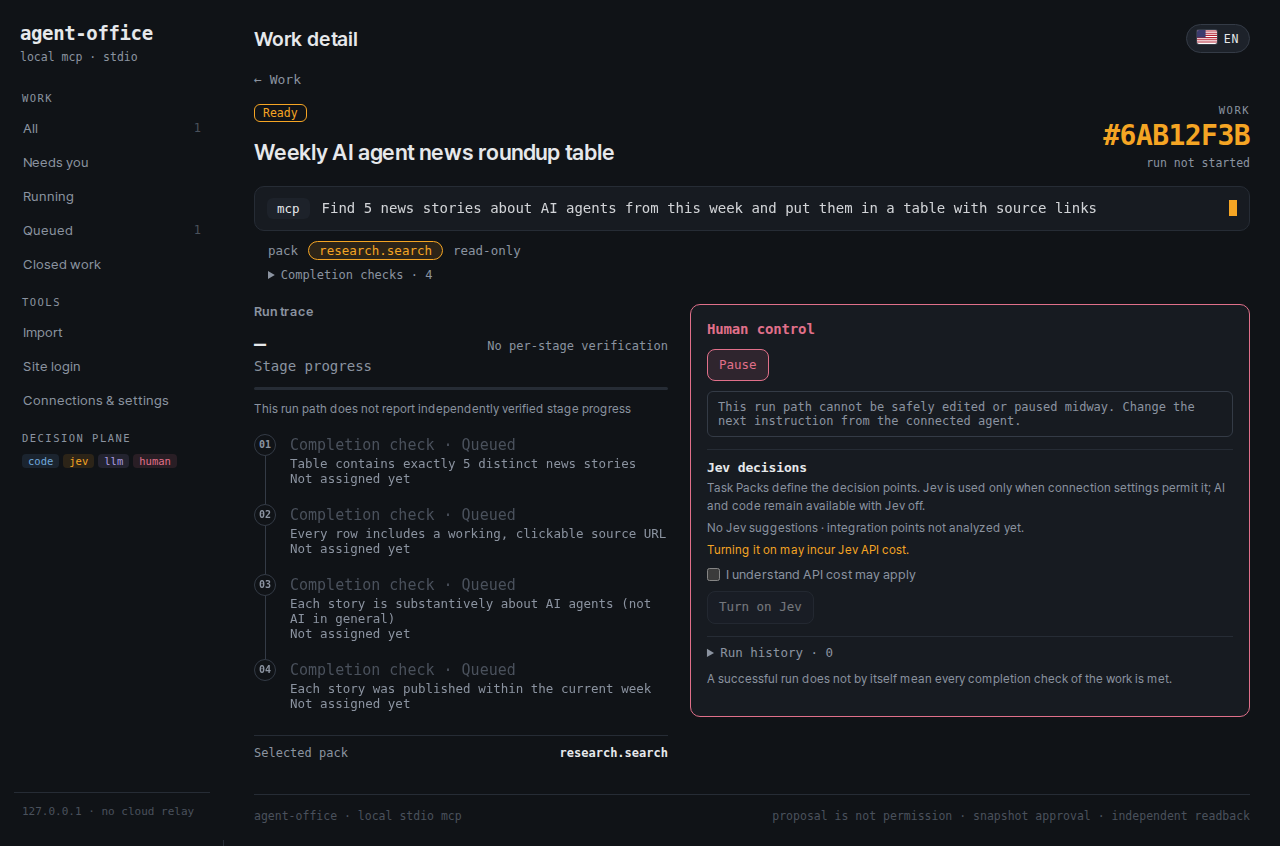
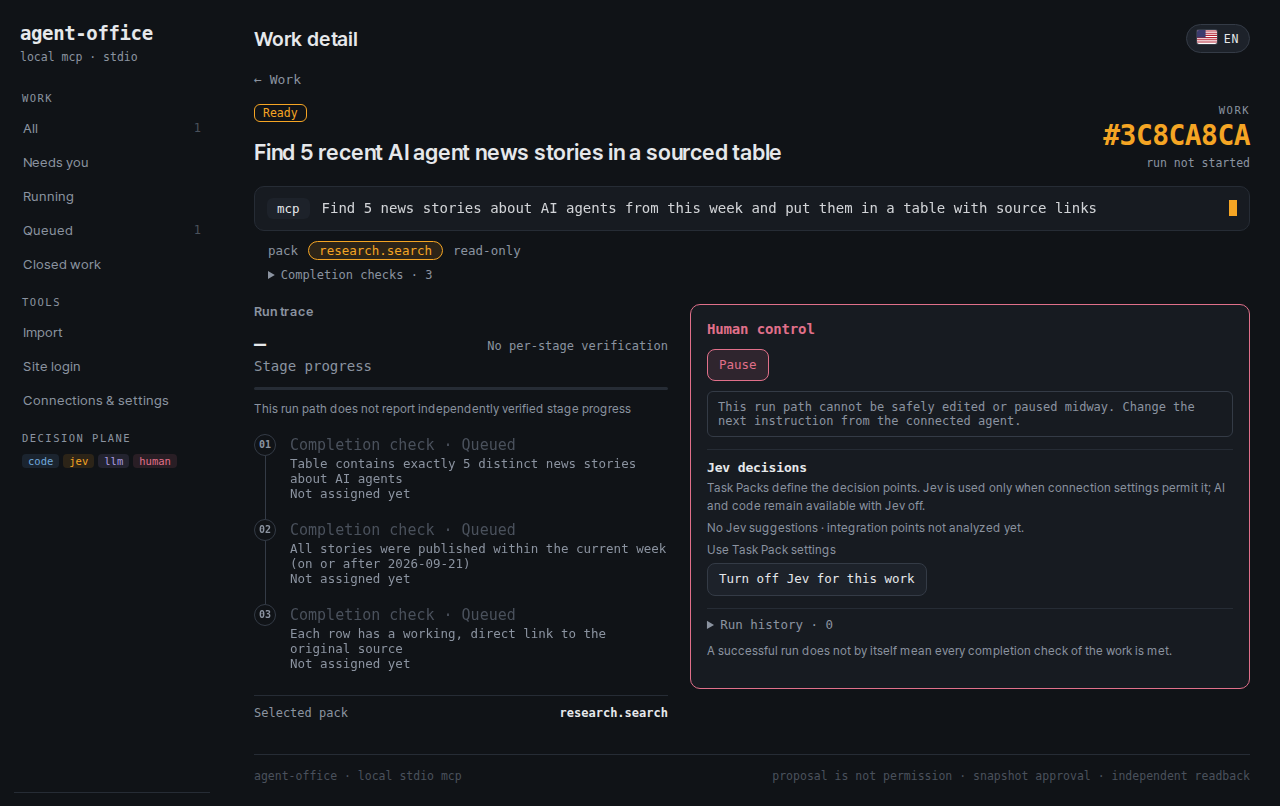
Accept Claude setup-token logins and finish the English Control Center
Claude subscription detection:
- Count a `claude setup-token` login (authMethod oauth_token) as a
  subscription, alongside claude.ai logins. v0.2.0 treated it as
  unconfirmed, so one-line Work stopped at "AI connection needed" on
  headless and WSL machines that sign in this way.
- Require apiProvider firstParty and no apiKeySource for any Claude
  subscription, so API keys, apiKeyHelper, Bedrock and Vertex sessions
  are still never billed as a subscription.

English UI:
- Translate the Hermes, remote OpenClaw, coding and Jev recommendation
  screens added in v0.2.0.
- Translate rule captures and parts recursively, and run the saved-model
  rule before the generic model rule.
- Serve an English migration prompt (prompt_en) for the English UI; the
  Korean prompt stays the default for existing callers.

README captures retaken from an empty v0.2.0 state with the fixes.

Claude-Session: https://claude.ai/code/session_0171zJvKY7w77Dtde6vXCLJg

diff --git a/src/observability/i18n.ts b/src/observability/i18n.ts
@@ -150,6 +150,8 @@ const EN:Record<string,string>={
 '독립 확인과 품질 승인된 단계만 계산':'Counts only independently checked and quality-approved stages','단계 실행·검증 완료 기준이며 업무 완료 조건은 별도 확인':'Based on stage runs and checks; work completion checks are confirmed separately',
 '사용자가 일시정지함':'Paused by you','완료 확인':'Completion check','결과 작성':'Write result','자료 확인':'Check sources','에이전트 ID 미보고':'Agent ID not reported','사이트 로그인이 필요함':'Site login required',
 '이 실행 경로는 단계별 독립 검증 결과를 보고하지 않음':'This run path does not report per-stage verification',
+// v0.2.0 Hermes, remote OpenClaw and coding screens
+"Hermes 실행 · Driver 관리":"Hermes runs · Driver manages","현재 진행":"Current progress","Hermes 세션":"Hermes session","첫 지시를 보낼 때 전용 Hermes 세션을 만듭니다.":"A dedicated Hermes session is created when you send the first instruction.","아직 Hermes가 보고한 실행 단계가 없습니다.":"Hermes has not reported any run steps yet.","업무 절차":"Work steps","가져온 기록":"Imported record","실제 작업 로그":"Actual work log","업무 제어":"Work control","배정 재개":"Resume assignment","일시정지는 새 배정을 막고 진행 중인 요청에 중단을 전달합니다. 이미 발생한 변경은 취소되지 않습니다. 재개해도 중단된 지시를 자동 반복하지 않습니다.":"Pause blocks new assignments and sends a stop to the request in progress. Changes already made are not undone. Resuming does not repeat the stopped instruction automatically.","Hermes 승인 요청":"Hermes approval request","현재 요청 한 번에만 적용됩니다.":"Applies to the current request only.","Hermes에 다음 지시":"Next instruction for Hermes","Hermes에 설정된 모델로 실행합니다. 설정에 따라 API 비용 또는 구독 사용량이 발생합니다.":"Runs with the model configured in Hermes. Depending on that setting, it uses API credit or subscription usage.","Hermes로 실행":"Run with Hermes","Hermes의 모델·인증 설정을 유지합니다. 이 버튼은 자동 예약을 만들지 않습니다. Telegram 게이트웨이는 그대로 유지됩니다.":"Hermes keeps its model and auth settings. This button creates no schedule. The Telegram gateway stays as it is.","Hermes 답변":"Hermes reply","지시 대기":"Waiting for instruction","Hermes 연결 중":"Connecting to Hermes","실행 중":"Running","답변 도착":"Reply received","연결 또는 실행 실패":"Connection or run failed","중단 결과 확인 필요":"Check the stop result","가져오기 연결 해제":"Unlink import","이전 기록":"Earlier record","첫 실행 전 연결 취소":"Unlink before first run","이번에 실행할 지시를 입력해 주세요.":"Enter the instruction to run now.","Hermes 모델 사용량 안내를 확인해 주세요.":"Acknowledge the Hermes model usage notice first.","요청을 저장하는 중…":"Saving the request…","Hermes 요청 실패":"Hermes request failed","지시를 접수했습니다. Hermes의 진행과 답변이 여기에 표시됩니다.":"Instruction received. Hermes progress and replies appear here.","새 지시를 보낼 수 있습니다. 자동 재실행은 하지 않습니다.":"You can send a new instruction. Nothing re-runs automatically.","요청을 반영했습니다.":"Request applied.","Hermes 작업 로그":"Hermes work log","대상 날짜와 원하는 결과를 알려주세요. 제출·전송은 필요할 때 명시해 주세요.":"Give the target date and the result you want. Say explicitly when something should be submitted or sent.","Hermes 업무":"Hermes work","Hermes가 실행하고 Driver에서 관리합니다. 원본 대화·예약·인증은 그대로 둡니다.":"Hermes runs it and Driver manages it. The original conversations, schedules and auth stay as they are.","Hermes 데이터 폴더":"Hermes data folder","비워 두면 현재 프로필":"leave empty for the current profile","가져올 업무 찾기":"Find work to import","예약은 원본 Hermes에서 계속 유지됩니다. 새 예약을 만들지 않습니다.":"Schedules stay in the original Hermes. No new schedule is created.","예약":"Schedule","대화":"Conversation","다음 대화 보기":"Show more conversations","가져오기 완료":"Imported","가져오기 연결 취소됨":"Import unlinked","원본 Hermes는 변경하지 않았습니다. 실행이나 예약을 시작하지 않았습니다.":"The original Hermes was not changed. No run or schedule was started.","변경 전 백업 보관":"Backup kept from before the change","업무 등록 전":"Before Work registration","업무 보기":"View work","가져올 업무 확인":"Review work to import","이 초안은 선택한 원본의 지침을 옮긴 것입니다. 업무 해석과 과거 결과는 아직 검증되지 않았습니다. 내용이 여러 업무를 섞고 있다면 한 업무로 좁혀 주세요.":"This draft carries over the selected source's instructions. Its reading of the work and past results are not verified yet. If it mixes several tasks, narrow it to one.","같은 원본으로 등록된 업무가 있습니다. 중복 생성하거나 덮어쓰지 않습니다.":"Work from the same source is already registered. Nothing is duplicated or overwritten.","기존 업무 보기":"View existing work","업무 이름":"Work name","목표":"Goal","실행 지침":"Run instructions","한 줄에 하나":"one per line","업무 단계":"Work steps","내용을 확인했습니다. Hermes 실행은 유지하고 Driver에 대기 업무로 등록합니다.":"I reviewed this. Hermes keeps running it; register it in Driver as queued work.","키·쿠키를 복사하지 않습니다. 가져오기 처리는 AI·Jev를 추가 호출하지 않습니다. 원본 예약을 계속 돌리고 있다면 수동 실행과 겹치지 않게 확인하세요.":"Keys and cookies are not copied. Importing makes no extra AI or Jev calls. If the original schedule keeps running, make sure manual runs do not overlap with it.","확인하고 가져오기":"Review and import","이전에 수동으로 가져온 같은 원본의 업무가 있습니다. 기존 업무를 확인해 주세요. 자동으로 덮어쓰거나 중복 등록하지 않습니다.":"Work from the same source was imported manually before. Check the existing work; nothing is overwritten or registered twice.","확인하는 동안 원본이 바뀌었습니다. 목록에서 다시 선택해 검토해 주세요.":"The source changed while you were reviewing. Select it from the list again and review.","이미 연결된 업무가 있습니다. 기존 업무를 확인해 주세요. 새 내용으로 자동 덮어쓰지 않습니다.":"This is already linked to a Work. Check the existing work; it is not overwritten automatically.","이미 등록한 내용과 다릅니다. 기존 업무를 확인해 주세요.":"This differs from what was registered. Check the existing work.","이미 실행한 이력이 있어 가져오기를 취소할 수 없습니다. 업무 상세에서 일시정지하세요.":"It has already run, so the import cannot be undone. Pause it from Work detail.","지침에 비밀번호·토큰 같은 값이 들어 있습니다. 값은 빼고 필요한 연결 종류만 적어 주세요.":"The instructions contain a value such as a password or token. Remove the value and name only the kind of connection needed.","Hermes 데이터 폴더를 찾지 못했습니다. 실행 환경의 경로를 확인해 주세요.":"Could not find the Hermes data folder. Check the path in the environment running Office.","선택한 폴더에서 Hermes 대화나 예약을 찾지 못했습니다.":"No Hermes conversations or schedules were found in that folder.","원본의 특수 실행 설정을 그대로 보존할 수 없습니다. 표시된 제한을 확인해 주세요.":"Some special run settings of the source cannot be kept as they are. Check the limits shown.","가져오기를 완료하지 못했습니다.":"The import could not be completed.","가져오기 요청을 처리하는 중…":"Processing the import request…","가져올 업무를 선택하세요. 아직 아무것도 실행하지 않았습니다.":"Choose the work to import. Nothing has run yet.","원본을 읽어 초안을 만들었습니다. 목표·지침·완료 조건을 확인해 주세요.":"Drafted from the source. Check the goal, instructions and completion checks.","이전 기록을 불러왔습니다.":"Loaded the earlier record.","연결만 취소했습니다. 원본과 이전 기록은 보존했습니다.":"Only the link was removed. The source and earlier record are kept.","확인 체크를 선택해 주세요. 등록해도 바로 실행하지 않습니다.":"Tick the confirmation first. Registering does not start a run.","이미 등록된 같은 업무를 연결했습니다.":"Linked to the same Work that was already registered.","업무를 등록했습니다. 실행은 다음 지시를 보낼 때 시작합니다.":"Work registered. It runs when you send the next instruction.","예: /home/me/.hermes":"e.g. /home/me/.hermes","원격 OpenClaw":"Remote OpenClaw","실행은 서버에서, 관리는 Office에서 합니다. 기존 인증·예약을 옮기지 않습니다.":"It runs on the server and is managed in Office. Existing auth and schedules are not moved.","연결된 서버":"Connected server","서버 업무 찾기":"Find server work","서버 연결 추가":"Add server connection","이 Office가 실행되는 환경에서 SSH 접속과 서버 신뢰 등록이 되어 있어야 합니다. 비밀번호나 API 키는 여기에 입력하지 않습니다.":"The environment running this Office needs SSH access and a trusted host entry for the server. Do not enter passwords or API keys here.","연결 이름":"Connection name","서버 주소":"Server address","SSH 사용자":"SSH user","SSH 포트":"SSH port","Docker 컨테이너":"Docker container","사용 시":"if used","서버의 OpenClaw 실행 파일":"OpenClaw executable on the server","연결 정보 저장":"Save connection","선택한 대화는 지시·결과·중단을 연결합니다. 예약은 실행 기록만 확인하며 서버가 계속 관리합니다.":"A linked conversation carries instructions, results and stops. A schedule is read-only run history and stays managed by the server.","가져올 업무":"Work to import","조회 전용":"read-only","Office에 연결":"Link to Office","일부 목록만 표시합니다. 최신 대화 50개·예약 100개까지 읽었습니다.":"Showing part of the list: up to the latest 50 conversations and 100 schedules were read.","OpenClaw 실행 / Office 관리":"OpenClaw runs / Office manages","아직 없음":"none yet","갱신 필요":"refresh needed","서버 연결을 확인하지 못했습니다. 아래는 마지막 관측 기록입니다.":"Could not reach the server. Below is the last observed record.","서버 기록":"Server record","대화 기록은 해당 세션의 최근 내용입니다. 다른 클라이언트의 메시지도 포함될 수 있습니다. 답변은 업무 완료 검증과 다릅니다.":"The conversation shows the session's recent messages and may include messages from other clients. A reply is not verification that the work is complete.","OpenClaw 답변":"OpenClaw reply","사용자 지시":"Your instruction","Office 연결 로그":"Office link log","서버 상태 새로 확인":"Refresh server status","내가 보낸 실행 중단":"Stop the run I sent","Office를 닫아도 서버 작업과 예약은 계속됩니다. 중단은 이 Office에서 보낸 실행에만 적용되며, 기존 변경은 되돌리지 않습니다.":"Server work and schedules continue when Office is closed. Stop applies only to runs sent from this Office and does not undo changes already made.","예약은 서버에서 유지됩니다. 이 연결은 실행 기록 조회 전용입니다.":"The schedule stays on the server. This link only reads its run history.","OpenClaw에 다음 지시":"Next instruction for OpenClaw","서버에 설정된 모델 사용량이 발생할 수 있음을 확인했습니다.":"I understand this may use the model configured on the server.","서버로 지시 보내기":"Send instruction to server","에이전트가 제안한 지시가 있습니다.":"Your agent proposed an instruction.","지시 초안 불러오기":"Load the proposed instruction","모델·인증·원본 예약은 변경하지 않습니다. 연결 실패 때 같은 요청을 자동 반복하지 않습니다.":"Model, auth and the original schedule are not changed. A failed connection does not repeat the same request automatically.","다음 지시 대기":"Waiting for next instruction","서버 실행 접수":"Accepted by server","서버 상태 대조 필요":"Reconcile with server","상태 확인 전":"Status not checked","서버 실행 종료":"Server run ended","중단 확인":"Stop confirmed","수신 여부 확인 필요":"Delivery unconfirmed","실행 실패":"Run failed","전달 중":"Sending","서버에 연결하지 못했습니다. Office 실행 환경의 SSH 키·서버 신뢰 등록·접속 권한을 확인하세요.":"Could not connect to the server. Check the SSH key, trusted host entry and access rights in the environment running Office.","먼저 서버 상태를 새로 확인하고 이전 결과를 검토해 주세요.":"Refresh the server status and review the previous result first.","서버가 중단을 확인하지 않았습니다. 상태를 새로 확인하세요.":"The server did not confirm the stop. Refresh the status.","서버의 종료 여부가 불확실합니다. 같은 지시를 다시 보내지 않습니다.":"It is unclear whether the server run ended. The same instruction is not sent again.","상태가 바뀌었습니다. 최신 상태에서 다시 확인해 주세요.":"The status changed. Check again against the latest state.","원격 요청 실패":"Remote request failed","서버를 선택하고 업무를 찾으세요.":"Choose a server and find its work.","먼저 서버 연결을 추가하세요.":"Add a server connection first.","연결 정보를 저장했습니다. 서버 업무 찾기로 접속을 확인하세요.":"Connection saved. Use Find server work to check access.","먼저 서버 연결을 선택하세요.":"Choose a server connection first.","서버에서 대화·예약 목록을 읽고 있습니다. 실행하지 않습니다.":"Reading conversations and schedules from the server. Nothing runs.","서버 업무를 연결했습니다. 실행하거나 예약을 복제하지 않았습니다.":"Server work linked. Nothing ran and no schedule was copied.","가져올 업무의 Office에 연결 버튼을 누르세요.":"Press Link to Office on the work to import.","서버 모델 사용량 안내를 확인해 주세요.":"Acknowledge the server model usage notice first.","지시를 입력하세요.":"Enter an instruction.","서버 상태를 확인하고 있습니다.":"Checking server status.","서버에 요청을 전달하고 있습니다.":"Sending the request to the server.","연결을 확인하지 못했습니다. 마지막 기록을 보존했습니다.":"Could not confirm the connection. The last record is kept.","서버 응답을 반영했습니다.":"Server response applied.","예: 내 서버":"e.g. my server","서버 IP 또는 호스트 이름":"Server IP or host name","새 업무":"New work","완료 조건 · 한 줄에 하나":"Completion checks · one per line","Codex 대화":"Codex conversation","Codex 세션 연결":"Attach Codex session","결과 확인 · 다음 지시 준비":"Check result · prepare next instruction","Jev API 비용 가능성을 확인하고 이 업무에서 사용을 허용합니다":"I understand Jev may incur API cost and allow it for this work","Jev 없이 기존 AI와 코드로 진행합니다.":"Continues with the existing AI and code, without Jev.","Jev 추천 · 한 곳":"Jev suggestion · one place","Jev는 선택사항입니다. 사용 시 API 비용이 발생할 수 있습니다. 동의하지 않아도 기존 AI와 코드로 진행합니다.":"Jev is optional and may incur API cost. Without consent, work continues with the existing AI and code.","코드 근거와 판단 방식":"Code evidence and decision shape","코드 분석을 바탕으로 한 예상입니다. 속도·비용 개선은 미측정이며, Jev를 켜도 원본 코드에 자동으로 삽입되지는 않습니다.":"This is an estimate from code analysis. Speed and cost gains are not measured, and turning Jev on does not insert it into the original code.","선택한 로컬·WSL 경로의 파일 일부를 읽기 전용으로 분석합니다. AI 연결이 승인돼 있으면 README 요약·비밀값을 가린 코드 일부·근거 위치를 해당 모델에 보낼 수 있습니다. 이 단계에서 Jev는 호출하지 않습니다.":"Reads part of the selected local or WSL path, read-only. If AI use is approved, a README summary, redacted code excerpts and evidence locations may be sent to that model. Jev is not called at this step.","예: /home/me/projects/my-bot 또는 C:\\projects\\my-bot":"e.g. /home/me/projects/my-bot or C:\\projects\\my-bot","확인 결과 · 자동 재실행 없음":"Check result · no automatic re-run","비밀값 가림":"secrets redacted","직접 로그인 중":"logging in directly","저장된 모델":"saved model","세션 확인 필요":"session unconfirmed","미등록":"not registered","있음":"yes","없음":"no","승인됨":"approved","초안":"draft","확인된 완료 조건":"Confirmed completion checks",
 };
 /** Ordered regex rules for text assembled from numbers or names. */
 const RULES:Array<[string,string]>=[
@@ -157,18 +159,24 @@ const RULES:Array<[string,string]>=[
 ['^사이트 로그인 (\\d+)개 필요$','Site login · $1 needed'],['^실행 이력 (\\d+)건$','Run history · $1'],['^최근 변경 (\\d+)건$','Recent changes · $1'],['^클라이언트 인계 (\\d+)건$','Client handoffs · $1'],
 ['^근거 (\\d+)건 보기$','Show evidence · $1'],['^미확인 (\\d+)건$','Unknown · $1'],['^완료 조건 (\\d+)개$','Completion checks · $1'],['^확인된 완료 조건 (\\d+)개$','Confirmed completion checks · $1'],['^확인된 단계 (\\d+)개 · 제안 (\\d+)개$','Confirmed steps $1 · suggestions $2'],
 ['^(\\d+) / (\\d+) 단계 · (\\d+)명 작업 중$','$1 / $2 stages · $3 working'],['^완료 조건 · (.+)$','check · $1'],['^현재 담당: (.+)$','Owner: $1'],['^실행기: (.+)$','Executor: $1'],['^(.+) 단계에 새 지침$','New instruction for $1'],
-['^(.+)에 MCP 등록$','Register MCP in $1'],['^(.+) 설치$','Install $1'],['^(.+) 모델$','$1 model'],['^(\\d+)개 모델 확인 · (.+)$','$1 models · $2'],['^현재 확인: (.+)$','Checked: $1'],['^(\\S+) (\\d+)개$','$1 $2'],
-['^키 입력 후 새로고침하면 최신 목록을 불러옵니다 · 기본 (.+)$','Enter a key and refresh for the latest list · default $1'],['^(.+) · 저장된 모델$','$1 · saved model'],
+['^(.+)에 MCP 등록$','Register MCP in $1'],['^(.+) 설치$','Install $1'],['^(.+) · 저장된 모델$','$1 · saved model'],['^(\\S+) 기본값만$','$1 default only'],['^(.+) 모델$','$1 model'],['^(\\d+)개 모델 확인 · (.+)$','$1 models · $2'],['^현재 확인: (.+)$','Checked: $1'],['^(\\S+) (\\d+)개$','$1 $2'],
+['^키 입력 후 새로고침하면 최신 목록을 불러옵니다 · 기본 (.+)$','Enter a key and refresh for the latest list · default $1'],
 ['^(.+) MCP 등록 완료 · ([\\d.]+)초$','$1 MCP registered · $2s'],['^(.+)에 agent-driver mcp 등록 요청$','Requested agent-driver mcp registration in $1'],['^(.+) 설치 확인 완료 · ([\\d.]+)초$','$1 install confirmed · $2s'],
 ['^(.+) 공식 설치 프로그램 다운로드 시작$','$1: downloading official installer'],['^(.+) 설치 파일 검증 완료 · (.+)바이트$','$1: installer verified · $2 bytes'],['^(.+) 설치 프로그램 실행 시작$','$1: running installer'],['^(.+) 설치 프로그램 종료 코드 (.+) · (.+)초$','$1: installer exit code $2 · $3s'],['^(.+) 실행 파일 탐지 중$','$1: locating executable'],
 ['^지시 (\\d+) · (.+)$','Instruction $1 · $2'],['^프로젝트 (.+) · 세션 (.+) · 모델 (.+) · (.+)$','Project $1 · session $2 · model $3 · $4'],
 ['^다음 단계: (.+)$','Next stage: $1'],['^대상: (.+)$','Target: $1'],['^원본: (.+)$','Source: $1'],['^승인 경계: (.+)$','Approval boundary: $1'],['^근거: (.+)$','Evidence: $1'],['^단계: (.+)$','Step: $1'],['^미확인: (.+)$','Unknown: $1'],
-['^Jev 추천 없음 · (.+)$','No Jev suggestions · $1'],['^가져온 계획 · (.+)$','Imported plan · $1'],
+['^Jev 추천 없음 · (.+)$','No Jev suggestions · $1'],
+['^Hermes 세션 (.+)$','Hermes session $1'],['^원본 근거 (\\d+)개$','Source evidence · $1'],['^기록 (\\S+)$','Record $1'],['^마지막 확인 (.+)$','Last checked $1'],
+['^현재 HEAD (.+)$','Current HEAD $1'],['^변경 지문 (.+)$','Change fingerprint $1'],['^이곳을 선정한 이유: (.+)$','Why here: $1'],['^기대 효과: (.+)$','Expected gain: $1'],
+['^왜 Jev일까요\\? (.+)$','Why Jev? $1'],['^현재 처리: (.+)$','Current handling: $1'],['^반복 근거: (.+)$','Repetition basis: $1'],['^필요한 입력: (.+)$','Inputs needed: $1'],['^불확실할 때: (.+)$','When uncertain: $1'],
+['^선행: (.+)$','Depends on: $1'],['^시작: (.+)$','Trigger: $1'],['^전달: (.+)$','Delivery: $1'],['^코드 수정 권한 (.+)$','Code write access $1'],['^AI 자료 사용 (.+)$','AI data use $1'],
+['^(.+)\\. 실행하면 프로젝트 코드가 바뀔 수 있습니다\\. 한 번에 한 단계씩 진행합니다\\.$','$1. Running it may change project code. It proceeds one stage at a time.'],
+['^VNC (.+)에서 로그인하세요\\.$','Log in over VNC at $1.'],['^(.+) → (.+)$','$1 → $2'],['^가져온 계획 · (.+)$','Imported plan · $1'],
 ];
 export const i18nScript=`(()=>{const EN=${JSON.stringify(EN)},RULES=${JSON.stringify(RULES)}.map(([p,r])=>[new RegExp(p,'u'),r]),FLAGS=${JSON.stringify(flagSvgs)};
 let lang='en';try{lang=localStorage.getItem('office-lang')==='ko'?'ko':'en'}catch{}
 document.documentElement.lang=lang;window.officeLang=lang;
-const one=t=>{if(!t||!/[\\uAC00-\\uD7A3]/u.test(t))return null;if(Object.hasOwn(EN,t))return EN[t];for(const [re,r] of RULES)if(re.test(t)){const out=t.replace(re,r);const parts=out.split(' · ').map(p=>Object.hasOwn(EN,p)?EN[p]:p);return parts.join(' · ')}if(t.includes(' · ')){const parts=t.split(' · '),mapped=parts.map(p=>Object.hasOwn(EN,p)?EN[p]:one(p)??p);if(mapped.some((p,i)=>p!==parts[i]))return mapped.join(' · ')}return null};
+const one=t=>{if(!t||!/[\\uAC00-\\uD7A3]/u.test(t))return null;if(Object.hasOwn(EN,t))return EN[t];for(const [re,r] of RULES)if(re.test(t)){const out=t.replace(re,(...a)=>r.replace(/\\$(\\d)/g,(_,i)=>{const g=a[+i];return one(g)??g}));const parts=out.split(' · ').map(p=>Object.hasOwn(EN,p)?EN[p]:p!==out?one(p)??p:p);return parts.join(' · ')}if(t.includes(' · ')){const parts=t.split(' · '),mapped=parts.map(p=>Object.hasOwn(EN,p)?EN[p]:one(p)??p);if(mapped.some((p,i)=>p!==parts[i]))return mapped.join(' · ')}return null};
 const log=t=>t.split('\\n').map(line=>{const m=/^(.*?) \\[([A-Z]+) · (진행|완료|실패|기록)\\] (.*)$/u.exec(line);if(!m)return one(line.trim())??line;return m[1]+' ['+m[2]+' · '+({진행:'running',완료:'done',실패:'failed',기록:'log'})[m[3]]+'] '+(one(m[4])??m[4])}).join('\\n');
 const text=node=>{const v=node.nodeValue,t=v.trim();if(!t)return;const p=node.parentElement;if(!p||p.closest('script,style,textarea,[data-i18n-skip]'))return;const out=p.id==='setup-log'?log(v):one(t);if(out!==null&&out!==t&&out!==v)node.nodeValue=p.id==='setup-log'?out:v.replace(t,out)};
 const attrs=el=>{for(const a of ['placeholder','aria-label','title']){const v=el.getAttribute&&el.getAttribute(a);if(v){const out=one(v.trim());if(out!==null)el.setAttribute(a,out)}}};

diff --git a/src/integrations/subscription-auth.ts b/src/integrations/subscription-auth.ts
@@ -90,9 +90,11 @@ export const resolveSubscriptionClientExecutable=(id:SubscriptionClientId,enviro
 };
 const clientExecutable=resolveSubscriptionClientExecutable;
 const expiredPattern=/\b(?:expired|expiration|refresh token (?:is )?invalid|session (?:is )?no longer valid)\b/iu;
+// Claude counts as a subscription for a claude.ai login or a `claude setup-token` token (authMethod oauth_token),
+// and only on first-party Anthropic with no API key source: an API key or cloud provider bills per use.
 const probeSpec:Record<SubscriptionClientId,{args:string[]|null;parse:(text:string)=>Omit<SubscriptionClientStatus,'id'|'structured_bridge'>;structured:boolean}>={
   codex:{args:['login','status'],structured:true,parse:text=>/Logged in using ChatGPT/iu.test(text)?{status:'ready',auth:'subscription',reason:'client_reported_ready'}:expiredPattern.test(text)?{status:'expired',auth:'unknown',reason:'client_reported_expired'}:/not logged in|login required/iu.test(text)?{status:'signed_out',auth:'unknown',reason:'client_reported_signed_out'}:{status:'unknown',auth:'unknown',reason:'unrecognized_status'}},
-  claude:{args:['auth','status'],structured:true,parse:text=>{try{const value=JSON.parse(text) as {loggedIn?:unknown;authMethod?:unknown;subscriptionType?:unknown;error?:unknown;status?:unknown};if(value.loggedIn===true){const subscription=value.authMethod==='claude.ai'||value.authMethod===undefined&&typeof value.subscriptionType==='string'&&['pro','max','team','enterprise'].includes(value.subscriptionType.toLowerCase());return {status:subscription?'ready':'unknown',auth:subscription?'subscription':'unknown',reason:subscription?'client_reported_ready':'client_auth_not_subscription'};}if(value.loggedIn===false){const detail=[value.error,value.status].filter(item=>typeof item==='string').join(' ');return expiredPattern.test(detail)?{status:'expired',auth:'unknown',reason:'client_reported_expired'}:{status:'signed_out',auth:'unknown',reason:'client_reported_signed_out'};}}catch{}return expiredPattern.test(text)?{status:'expired',auth:'unknown',reason:'client_reported_expired'}:{status:'unknown',auth:'unknown',reason:'unrecognized_status'};}},
+  claude:{args:['auth','status'],structured:true,parse:text=>{try{const value=JSON.parse(text) as {loggedIn?:unknown;authMethod?:unknown;subscriptionType?:unknown;apiProvider?:unknown;apiKeySource?:unknown;error?:unknown;status?:unknown};if(value.loggedIn===true){const firstParty=(value.apiProvider===undefined||value.apiProvider==='firstParty')&&(value.apiKeySource===undefined||value.apiKeySource===null);const subscription=firstParty&&(value.authMethod==='claude.ai'||value.authMethod==='oauth_token'||value.authMethod===undefined&&typeof value.subscriptionType==='string'&&['pro','max','team','enterprise'].includes(value.subscriptionType.toLowerCase()));return {status:subscription?'ready':'unknown',auth:subscription?'subscription':'unknown',reason:subscription?'client_reported_ready':'client_auth_not_subscription'};}if(value.loggedIn===false){const detail=[value.error,value.status].filter(item=>typeof item==='string').join(' ');return expiredPattern.test(detail)?{status:'expired',auth:'unknown',reason:'client_reported_expired'}:{status:'signed_out',auth:'unknown',reason:'client_reported_signed_out'};}}catch{}return expiredPattern.test(text)?{status:'expired',auth:'unknown',reason:'client_reported_expired'}:{status:'unknown',auth:'unknown',reason:'unrecognized_status'};}},
   opencode:{args:['auth','list','--format','json'],structured:true,parse:text=>{try{const value=JSON.parse(text) as unknown;const count=Array.isArray(value)?value.length:value&&typeof value==='object'?Object.keys(value).length:0;return count>0?{status:'ready',auth:'unknown',reason:'client_reported_ready'}:{status:'signed_out',auth:'unknown',reason:'client_reported_signed_out'};}catch{return expiredPattern.test(text)?{status:'expired',auth:'unknown',reason:'client_reported_expired'}:{status:'unknown',auth:'unknown',reason:'unrecognized_status'};}}},
   cursor:{args:null,structured:false,parse:()=>({status:'unavailable',auth:'unknown',reason:'status_contract_unavailable'})},
   hermes:{args:['proxy','status'],structured:false,parse:text=>/\[[^\]]+\][^\r\n]*logged in/iu.test(text)&&!/not logged in/iu.test(text)?{status:'ready',auth:'oauth',reason:'oauth_proxy_ready'}:/not logged in/iu.test(text)?{status:'signed_out',auth:'unknown',reason:'proxy_upstreams_signed_out'}:{status:'unknown',auth:'unknown',reason:'unrecognized_status'}},

diff --git a/src/observability/work-ui.ts b/src/observability/work-ui.ts
@@ -168,7 +168,7 @@ ${remoteOfficeScript()}
 document.getElementById('open-import').onclick=()=>{importOpen=true;render();setImportRoute('external');loadMigrationPrompt()};
 document.getElementById('close-import').onclick=()=>{importOpen=false;importResult=null;render();setMessage('')};
 document.querySelectorAll('[data-import-route]').forEach(button=>button.onclick=()=>{setImportRoute(button.dataset.importRoute);if(button.dataset.importRoute==='external')loadMigrationPrompt()});
-async function loadMigrationPrompt(){const target=document.getElementById('migration-prompt');if(target.value)return;try{const response=await fetch('work/import/prompt',{cache:'no-store'});if(!response.ok)throw Error('이전 프롬프트를 읽지 못했습니다.');const body=await response.text();let data;try{data=JSON.parse(body)}catch{data=body}const prompt=typeof data==='string'?data:data.prompt;if(typeof prompt!=='string'||!prompt.trim())throw Error('이전 프롬프트가 비어 있습니다.');target.value=prompt}catch(error){setMessage(String(error.message||error))}}
+async function loadMigrationPrompt(){const target=document.getElementById('migration-prompt');if(target.value)return;try{const response=await fetch('work/import/prompt',{cache:'no-store'});if(!response.ok)throw Error('이전 프롬프트를 읽지 못했습니다.');const body=await response.text();let data;try{data=JSON.parse(body)}catch{data=body}const prompt=typeof data==='string'?data:window.officeLang==='en'&&typeof data.prompt_en==='string'?data.prompt_en:data.prompt;if(typeof prompt!=='string'||!prompt.trim())throw Error('이전 프롬프트가 비어 있습니다.');target.value=prompt}catch(error){setMessage(String(error.message||error))}}
 document.getElementById('copy-migration-prompt').onclick=async()=>{const target=document.getElementById('migration-prompt');if(!target.value)await loadMigrationPrompt();if(!target.value)return;try{await navigator.clipboard.writeText(target.value);setMessage('프롬프트를 복사했습니다. 기존 AI에 붙여넣으세요.')}catch{target.select();setMessage('프롬프트를 선택했습니다. 복사해서 기존 AI에 붙여넣으세요.')}};
 document.getElementById('paste-import').onclick=()=>{const text=document.getElementById('import-json').value.trim();if(!text){setMessage('기존 AI의 JSON 답변을 붙여넣어 주세요.');return}importRequest('work/import/paste',{text})};
 document.getElementById('scan-import').onclick=()=>{const path=document.getElementById('import-path').value.trim();if(!path){setMessage('로컬 또는 WSL 프로젝트 경로를 입력해 주세요.');return}importRequest('work/import/scan',{path})};

diff --git a/src/work/import-runtime.ts b/src/work/import-runtime.ts
@@ -4,7 +4,7 @@ import {type PackStore} from '../packs/store.js';
 import {type StructuredModel} from '../taskpack/adaptive-spec.js';
 import {snapshotHash} from '../taskpack/contracts.js';
 import {validateWorkProposal,type WorkProposal} from './contracts.js';
-import {parseWorkImportDraft,UNIVERSAL_WORK_MIGRATION_PROMPT,type WorkImportDraft} from './import-draft.js';
+import {parseWorkImportDraft,UNIVERSAL_WORK_MIGRATION_PROMPT,UNIVERSAL_WORK_MIGRATION_PROMPT_EN,type WorkImportDraft} from './import-draft.js';
 import {scanProject,type ProjectScan} from './project-scan.js';
 import {importJevRecommendationSchema,IMPORT_JEV_SELECTION_INSTRUCTIONS,validatedImportJevRecommendations} from './jev-import-recommendation.js';
 
@@ -68,7 +68,7 @@ export function importedCodingReadiness(store:PackStore,config:HostConfig,workId
 
 export class WorkImportRuntime{
   constructor(readonly store:PackStore,readonly config:HostConfig,readonly model:StructuredModel){}
-  prompt(){return {prompt:UNIVERSAL_WORK_MIGRATION_PROMPT,format:'JSON',secrets:'do_not_include',next_action:'paste_result_for_preview'};}
+  prompt(){return {prompt:UNIVERSAL_WORK_MIGRATION_PROMPT,prompt_en:UNIVERSAL_WORK_MIGRATION_PROMPT_EN,format:'JSON',secrets:'do_not_include',next_action:'paste_result_for_preview'};}
   paste(raw:unknown){
     const input=workImportPasteSchema.parse(raw),draft=parseWorkImportDraft(input.text);
     const record=this.store.createWorkImport(this.config.project.id,'pasted',draft,snapshotHash(draft));

diff --git a/README.md b/README.md
@@ -112,7 +112,7 @@ This config works when the client and the server run in the same Ubuntu/WSL envi
 
 `agent-driver connect` opens the **Agent Office Control Center** (the installer runs it for you). It uses the same visual language as the agent-driver run trace: a dark ground, mono-first labels, and one color per decision path. **Amber** is Jev or the step running now, **lilac** is the LLM, **blue** is plain code, **rose** is a person, and **green** means verified. The UI is **English by default**. The flag button in the top-right switches to Korean, and each browser remembers its choice. The page uses one locally bundled Pretendard variable font, with no remote font CDN, UI framework, or screen previews. Selected controls use borders and background color instead of left-edge accent bars. Longer explanations sit behind a **?** button.
 
-> Every screenshot below is the **real v0.2.0 Control Center**, captured on 2026-09-26 on the Ubuntu 24.04 machine used for the terminal run above. The setup steps start from an empty `~/.agent-driver`. The Work screens use the task that the logged-in Claude Code subscription defined on 2026-09-24 under v0.1.0; it carried over the v0.2.0 upgrade with its Work ID, request and completion checks intact.
+> Every screenshot below is the **real v0.2.0 Control Center**, captured in order on 2026-09-26 on the Ubuntu 24.04 machine used for the terminal run above, starting from an empty `~/.agent-driver`. The task shown was defined by Claude Code on that machine's subscription login.
 
 ### Setup, step 1 of 4: agents
 
@@ -140,9 +140,9 @@ You approve the dedicated work folder and local execution once. The runtime is *
 
 Pick a subscription you're already logged in to, or an API key. Client status shows as compact chips, and the Claude Code model list (Sonnet, Opus, Haiku) loads from the CLI.
 
-The Claude Code chip reads **Not confirmed** in this capture. It is not an error in the page: this machine's Claude Code is signed in with a long-lived token from `claude setup-token`, which reports `authMethod: oauth_token`. v0.2.0 counts Claude as a subscription only when the CLI reports a `claude.ai` login, so it never bills an API-key session by mistake. On a machine signed in with `claude login`, the chip reads **Connected**.
+Claude Code counts as a subscription when the CLI reports a `claude login` session or a long-lived token from `claude setup-token`, on Anthropic's own API with no API key in use. An API key, `apiKeyHelper`, Bedrock or Vertex login is never treated as a subscription, so it cannot be billed by mistake. The machine in these captures uses a `setup-token` token.
 
-![AI step, subscription: settings scope Global, Claude Code chip "Not confirmed", Claude Code model Sonnet (latest), and the checked consent "Allow sending work content to the selected AI to define and plan it"](docs/assets/readme/cc-04-ai-subscription.png)
+![AI step, subscription: settings scope Global, Claude Code chip "Connected", Claude Code model Sonnet (latest), and the checked consent "Allow sending work content to the selected AI to define and plan it"](docs/assets/readme/cc-04-ai-subscription.png)
 
 **Sending task text to an AI takes one explicit consent.** Saving the checkbox writes it to your local `~/.agent-driver/runtime-config.json`:
 
@@ -199,7 +199,7 @@ The sidebar keeps a count for each group. Type a task in one line and press **Su
 
 | Board | List |
 |---|---|
-| ![Board: a research.search card "Weekly AI agent news roundup table", badge "Ready", in the Queued column](docs/assets/readme/cc-08-board.png) | ![List view: the same task as a compact row under Queued](docs/assets/readme/cc-09-list.png) |
+| ![Board: a research.search card "Find 5 recent AI agent news stories in a sourced table", badge "Ready", in the Queued column](docs/assets/readme/cc-08-board.png) | ![List view: the same task as a compact row under Queued](docs/assets/readme/cc-09-list.png) |
 
 ### ② Work detail: the run trace
 
@@ -209,9 +209,9 @@ Opening a task shows the same layout as the run-trace storyboard:
 - the request line with a blinking cursor
 - the selected pack pill with its effect scope (`research.search · read-only`)
 
-In this example, Claude Code defined a one-line request into a titled task with four completion checks. The header shows the Work ID (`#6AB12F3B`) and, separately, that no run has started yet. The left column is the **Run trace**: one node per completion check with its owner. A run path that does not report independently verified stage progress says **No per-stage verification** instead of drawing a progress bar. Verified stages turn amber, the running stage gets a halo, and a stage waiting on a person turns rose. The pictured checks are all queued; this capture shows the layout, not completed execution or verification.
+In this example, Claude Code defined a one-line request into a titled task with three completion checks. The header shows the Work ID (`#3C8CA8CA`) and, separately, that no run has started yet. The left column is the **Run trace**: one node per completion check with its owner. A run path that does not report independently verified stage progress says **No per-stage verification** instead of drawing a progress bar. Verified stages turn amber, the running stage gets a halo, and a stage waiting on a person turns rose. The pictured checks are all queued; this capture shows the layout, not completed execution or verification.
 
-![Work detail: Ready badge, Work #6AB12F3B with run not started, request line, research.search · read-only, four queued completion checks, and the Human control panel with Pause and Jev decisions](docs/assets/readme/cc-10-work-detail.png)
+![Work detail: Ready badge, Work #3C8CA8CA with run not started, request line, research.search · read-only, three queued completion checks, and the Human control panel with Pause and Jev decisions](docs/assets/readme/cc-10-work-detail.png)
 
 ### ③ Human control: pause or redirect a stage
 

diff --git a/docs/subscription-auth.md b/docs/subscription-auth.md
@@ -42,7 +42,7 @@ MCP client sampling
 |---|---|---|---|
 | MCP client | MCP capability handshake | `sampling/createMessage`, tools 없음, context 없음 | 연결된 client가 sampling을 지원할 때 최우선 |
 | Codex CLI | `codex login status` | ephemeral, read-only sandbox, output schema | ChatGPT 구독 로그인 사용 |
-| Claude Code | `claude auth status` | print/json schema, tools·hooks·MCP 없음, session 저장 없음 | claude.ai 구독 로그인 사용 |
+| Claude Code | `claude auth status` | print/json schema, tools·hooks·MCP 없음, session 저장 없음 | `claude login`(`authMethod: claude.ai`) 또는 `claude setup-token` 토큰(`oauth_token`)을 구독으로 인정. `apiProvider`가 `firstParty`가 아니거나 `apiKeySource`가 있으면(API 키·`apiKeyHelper`·Bedrock·Vertex) 구독으로 보지 않음 |
 | OpenCode | `opencode auth list --format json` | `run --format json`, 임시 프로젝트의 모든 permission deny | OpenCode에 연결된 API/OAuth 공급자와 선택 모델 사용 |
 | Cursor Agent | 현재 검증된 명령 없음 | 미지원 | 설치된 공식 status/login 계약을 확인하기 전에는 추측 실행하지 않음 |
 | Hermes | `hermes proxy status` | Agent Driver MCP sampling | proxy OAuth 상태는 진단만 하며 auth store를 읽지 않음 |
